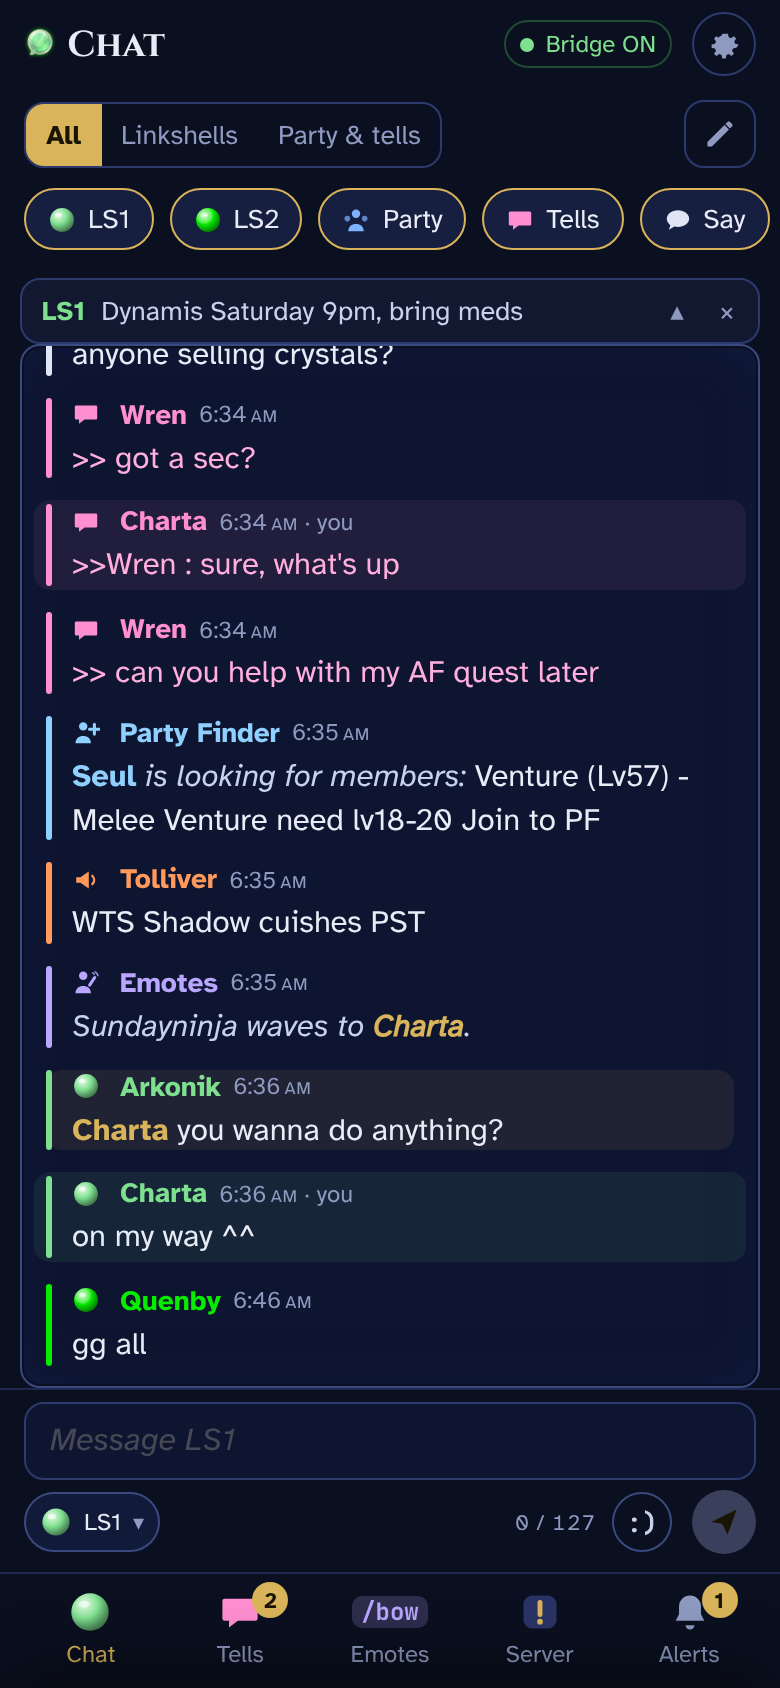
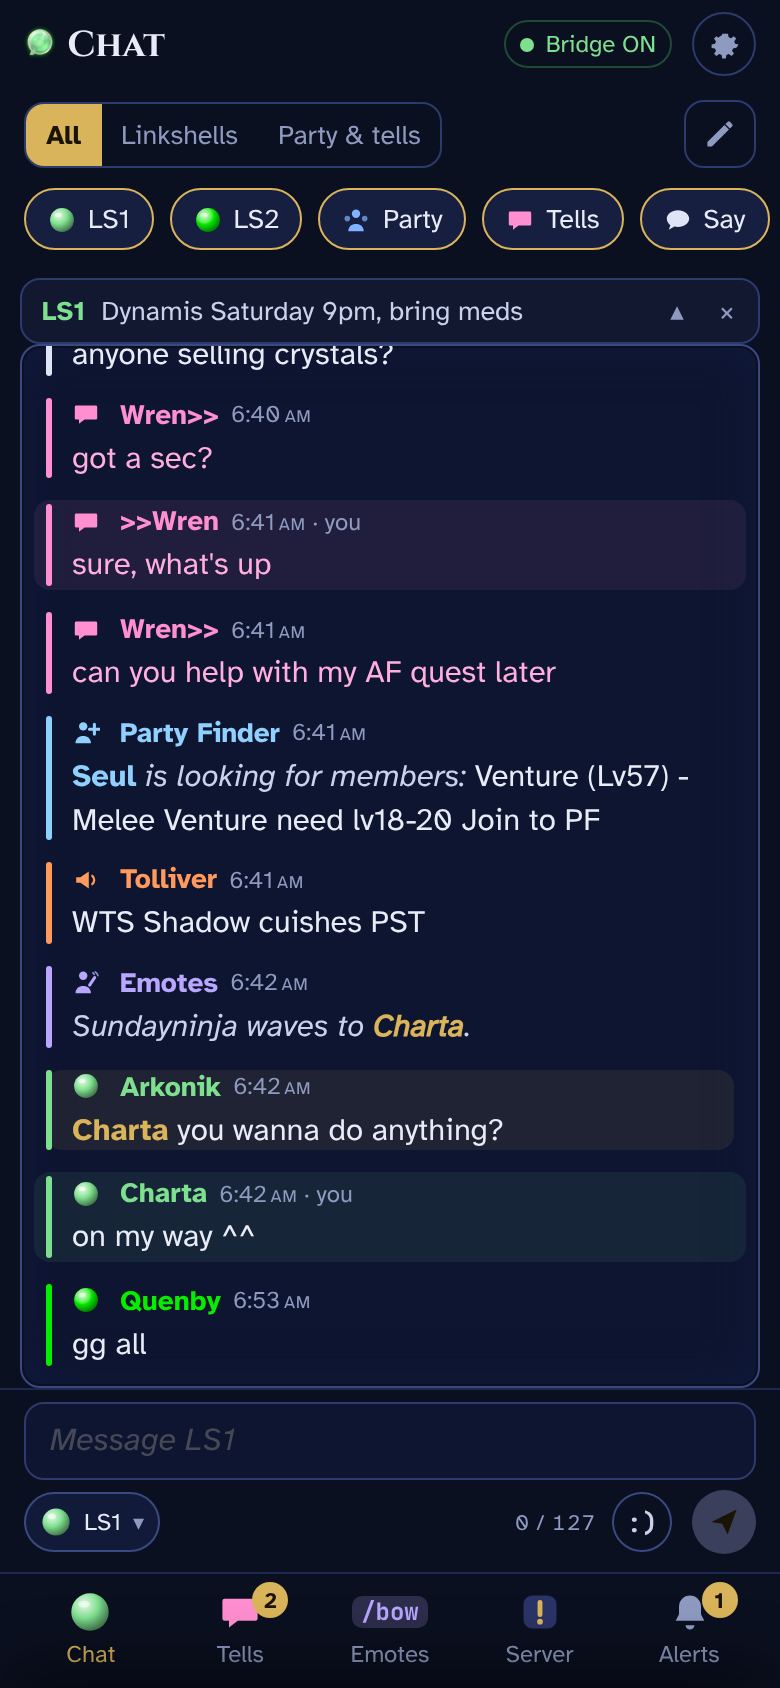
1.1.1: tells in chat show Wren>> / >>Wren in the header like the game, message plain; screenshots retaken
Claude-Session: https://claude.ai/code/session_01C54PoDV97t3aX5JPZhdwcf

diff --git a/bridge/index.html b/bridge/index.html
@@ -1071,9 +1071,7 @@ function readableColor(hex) {
 function bodyHtml(m) { var h = m.ch === "finder" ? fmtFinder(m.body) : fmt(m.body); return S.channelText ? '<span style="color:' + readableColor(colorOf(m.ch)) + '">' + h + "</span>" : h; }
 function bodyLine(m, ctx) {
   var b = bodyHtml(m);
-  if (m.ch === "tell" && ctx !== "thread") {
-    b = m.dir === "in" ? "&gt;&gt; " + b : "&gt;&gt;" + esc(m.pending ? m.peer : m.name) + " : " + b;
-  }
+  // Tells: the normal layout puts the game's arrows in the header (Wren>> / >>Wren), so the line is just the message.
   return '<div class="ln' + (m.ch === "emote" ? " emote" : "") + '">' + b + stateHtml(m) + "</div>" + failHtml(m);
 }
 function isCallOnly(m) { return false; }   // roll-call folding removed in 1.1
@@ -1092,11 +1090,11 @@ function blocks(items, ctx) {
       while (j < items.length && isCallOnly(items[j]) && items[j].ch === m.ch && items[j].name === m.name && items[j].ts - grp[grp.length - 1].ts <= 10) { grp.push(items[j]); j++; }
       if (grp.length >= 3) { out.push({type: "burst", m: m, grp: grp}); i = j - 1; last = null; continue; }
     }
-    var who = senderOf(m), dir = m.pending ? "out" : m.dir;
-    if (ctx !== "compact" && last && last.ch === m.ch && last.who === who && last.dir === dir && m.ts - last.lastTs <= 120 && !m.calls && !last.call) {
+    var who = senderOf(m), dir = m.pending ? "out" : m.dir, peer = m.ch === "tell" ? (m.pending ? m.peer : m.name) : "";
+    if (ctx !== "compact" && last && last.ch === m.ch && last.who === who && last.dir === dir && last.peer === peer && m.ts - last.lastTs <= 120 && !m.calls && !last.call) {
       last.ms.push(m); last.lastTs = m.ts; continue;
     }
-    last = {type: "run", ch: m.ch, who: who, dir: dir, ms: [m], lastTs: m.ts, call: !!(m.calls && S.calls !== "off")};
+    last = {type: "run", ch: m.ch, who: who, dir: dir, peer: peer, ms: [m], lastTs: m.ts, call: !!(m.calls && S.calls !== "off")};
     out.push(last);
   }
   return out;
@@ -1109,10 +1107,13 @@ function runHead(b, ctx) {
   if (m.saved && ctx === "thread") extra += " &middot; saved";
   var whoName = b.ch === "tell" ? (m.pending ? m.peer : m.name) : (b.dir === "out" || b.ch === "emote" ? "" : (m.name || ""));
   var nameTap = ' data-who="' + esc(whoName) + '" data-ch="' + b.ch + '"';
+  // Tells read like the game: "Wren>>" for one you got, ">>Wren" for one you sent.
+  var label = esc(b.who || CH[b.ch].full);
+  if (b.ch === "tell" && ctx !== "thread") label = b.dir === "out" ? "&gt;&gt;" + esc(whoName) : esc(whoName) + "&gt;&gt;";
   if (ctx === "thread" && b.dir === "out") {
     return '<div class="rhead"><span class="t">' + extra.replace(/^ &middot; /, "") + " &middot; " + hhmm(m.ts) + '</span><b>' + esc(b.who) + "</b>" + ico(c.icon) + "</div>";
   }
-  return '<div class="rhead"><button class="chico" data-focus="' + b.ch + '" aria-label="Open ' + esc((CH[b.ch] || {}).full || "") + '">' + ico(c.icon) + '</button><button class="who"' + nameTap + "><b>" + esc(b.who || CH[b.ch].full) + '</b></button><span class="t">' + hhmm(m.ts) + extra + "</span></div>";
+  return '<div class="rhead"><button class="chico" data-focus="' + b.ch + '" aria-label="Open ' + esc((CH[b.ch] || {}).full || "") + '">' + ico(c.icon) + '</button><button class="who"' + nameTap + "><b>" + label + '</b></button><span class="t">' + hhmm(m.ts) + extra + "</span></div>";
 }
 function replyAttr(m) {
   var peer = m.ch === "tell" ? (m.pending ? m.peer : m.name) : "";

diff --git a/CHANGELOG.md b/CHANGELOG.md
@@ -9,6 +9,7 @@ Fixes and looks only. It reads the same lines as 1.1.0, except one it now reads 
 ### Chat and layout
 - The message box is full width, with the target, emoticon and send buttons in a small row under it. It grows as you type, up to 4 lines, then scrolls inside itself. Return still sends. A line break you paste in becomes a space.
 - Unsent text stays put while you move between pages, switch channels or the connection drops and comes back. Each chat, channel and tell recipient keeps its own draft. Reloading or closing the page clears them. Drafts are never sent on their own and never go in a settings backup. If you keep typing while a send is going through, the new text stays.
+- Tells in chat read like the game: `Wren>>` above a tell you got, `>>Wren` above one you sent, and the message on its own line. Before, the arrows were mixed into the message, and who you'd sent a tell to was only inside the text. The compact layout keeps the game's one-line format.
 - Every page has the same slim header: Chat, Tells, Emotes and Server, Alerts, Settings.
 - The hint in the message box ("Message LS2") is in faded italics, so it doesn't look like typed text.
 - "Jump to latest" sits under the feed instead of covering messages.
